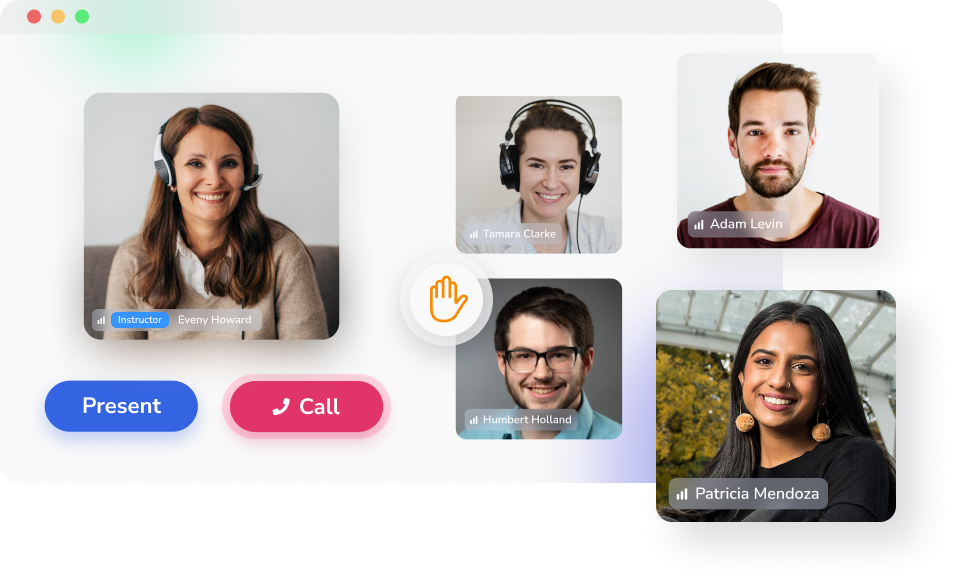
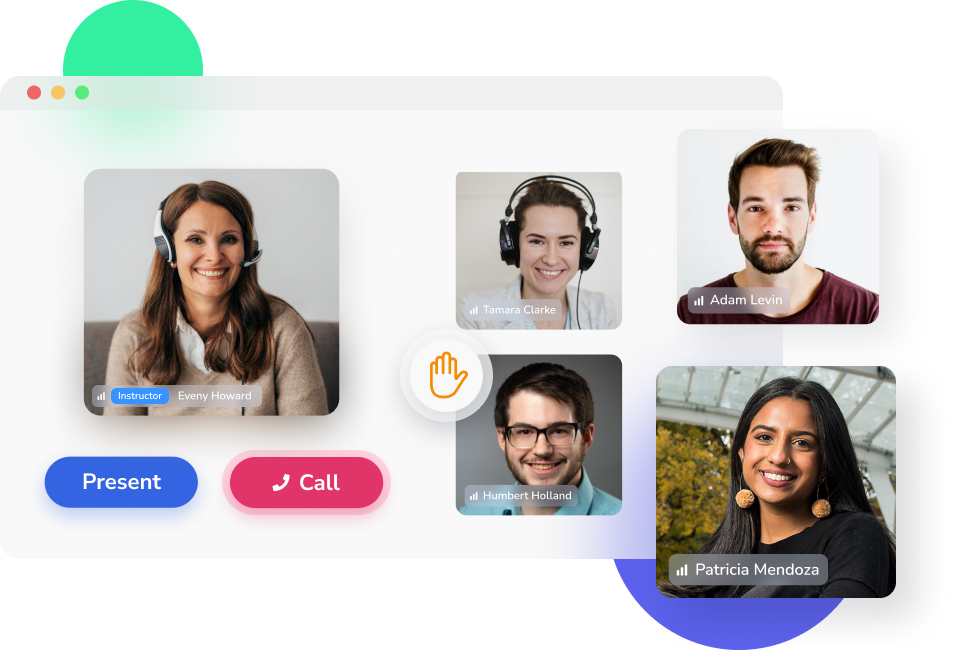
Menambahkan section features

diff --git a/scss/main.scss b/scss/main.scss
@@ -436,6 +436,7 @@ header {
 
   .imgs {
     position: relative;
+    margin-top: 5rem;
 
     .body {
       position: absolute;
@@ -450,6 +451,7 @@ header {
         color: white;
         text-shadow: 1px 1px 2px rgba($color: #000000, $alpha: 0.5);
         font-size: 1.7em;
+        text-transform: uppercase;
       }
 
       button {
@@ -517,14 +519,14 @@ header {
       }
     }
 
-    p{
+    p {
       color: #696984;
       font-size: 1.3em;
       font-weight: 400;
       margin: 25px 0;
     }
 
-    a{
+    a {
       text-decoration: none;
       color: #696984;
 
@@ -536,6 +538,98 @@ header {
 
   // padding: 10px 50px;
 }
+
+// Features
+.features {
+  margin-top: 10rem;
+
+  .heading {
+    text-align: center;
+
+    h3 {
+      font-size: 2em;
+      font-weight: 700;
+      color: $primary-colorBlue;
+
+      span {
+        color: $secondary-colorOrange;
+      }
+    }
+
+    p {
+      font-size: 1.3em;
+      font-weight: 400;
+      color: #696984;
+    }
+  }
+  main {
+    margin-top: 4rem;
+    display: grid;
+    grid-template-columns: 2fr 1.5fr;
+    justify-content: center;
+    align-items: center;
+
+    .main-img {
+      margin-left: 50px;
+      img {
+        width: 800px;
+      }
+    }
+
+    .main-text {
+      h4 {
+        font-size: 2.2em;
+        color: $primary-colorBlue;
+        font-weight: 600;
+
+        span {
+          color: $secondary-colorOrange;
+        }
+      }
+
+      .main-list {
+        display: grid;
+        grid-template-columns: 1fr 3fr;
+        align-items: center;
+        margin-left: -80px;
+        padding-right: 80px;
+
+        img {
+          margin-top: 5px;
+          width: 100px;
+          margin-left: 50px;
+        }
+
+        p {
+          font-size: 1.2em;
+          color: #696984;
+          font-weight: 400;
+        }
+      }
+    }
+  }
+}
+
+.tools {
+  @include flexitems(center, center);
+  // background-color: salmon;
+  margin-top: 5rem;
+
+  .main-text {
+    h4 {
+      font-size: 2.2em;
+      color: $primary-colorBlue;
+      font-weight: 600;
+
+      span {
+        color: $secondary-colorOrange;
+      }
+    }
+  }
+}
+
+
+
 
 @media (max-width: 576px) {
   nav .logo {

diff --git a/index.html b/index.html
@@ -296,7 +296,54 @@
       </div>
 
       <div class="main-img">
-        <img src="assets/img/skill/teaching.png" alt="Teaching image">
+        <img src="assets/img/skill/teaching.png" alt="Teaching image" />
+      </div>
+    </section>
+
+    <section class="features" id="features">
+      <div class="heading">
+        <h3>Our <span>Features</span></h3>
+        <p>
+          This very extraordinary feature, can make learning activities more
+          efficient
+        </p>
+      </div>
+      <main>
+        <div class="main-img">
+          <img src="assets/img/features/1/1.png" alt="One" />
+        </div>
+        <div class="main-text">
+          <h4>A <span>user interface</span> designed for the classroom</h4>
+          <div class="main-list">
+            <img src="assets/img/features/1/1-1.png" alt="one-one" />
+            <p>
+              Teachers don’t get lost in the grid view and have a dedicated
+              Podium space.
+            </p>
+
+            <img src="assets/img/features/1/1-2.png" alt="one-two" />
+            <p>TA’s and presenters can be moved to the front of the class.</p>
+
+            <img src="assets/img/features/1/1-3.png" alt="one-three" />
+            <p>
+              Teachers can easily see all students and class data at one time.
+            </p>
+          </div>
+        </div>
+      </main>
+    </section>
+
+    <section class="tools">
+      <div class="main-text">
+        <h4><span>Tools</span> For Teachers And Learners</h4>
+        <p>
+          Class has a dynamic set of teaching tools built to be deployed and
+          used during class. Teachers can handout assignments in real-time for
+          students to complete and submit.
+        </p>
+      </div>
+      <div class="main-img">
+        <img src="assets/img/features/2/1.png" alt="Tools Person">
       </div>
     </section>
     <script src="js/animate.js"></script>

diff --git a/css/main.css b/css/main.css
@@ -333,6 +333,7 @@ header .header .container-person img {
 }
 .about-us .imgs {
   position: relative;
+  margin-top: 5rem;
 }
 .about-us .imgs .body {
   position: absolute;
@@ -349,6 +350,7 @@ header .header .container-person img {
   color: white;
   text-shadow: 1px 1px 2px rgba(0, 0, 0, 0.5);
   font-size: 1.7em;
+  text-transform: uppercase;
 }
 .about-us .imgs .body button {
   font-size: 1.2;
@@ -415,6 +417,79 @@ header .header .container-person img {
 }
 .skill .text a:hover {
   text-decoration: underline;
+}
+
+.features {
+  margin-top: 10rem;
+}
+.features .heading {
+  text-align: center;
+}
+.features .heading h3 {
+  font-size: 2em;
+  font-weight: 700;
+  color: #2f327d;
+}
+.features .heading h3 span {
+  color: #f48c06;
+}
+.features .heading p {
+  font-size: 1.3em;
+  font-weight: 400;
+  color: #696984;
+}
+.features main {
+  margin-top: 4rem;
+  display: grid;
+  grid-template-columns: 2fr 1.5fr;
+  justify-content: center;
+  align-items: center;
+}
+.features main .main-img {
+  margin-left: 50px;
+}
+.features main .main-img img {
+  width: 800px;
+}
+.features main .main-text h4 {
+  font-size: 2.2em;
+  color: #2f327d;
+  font-weight: 600;
+}
+.features main .main-text h4 span {
+  color: #f48c06;
+}
+.features main .main-text .main-list {
+  display: grid;
+  grid-template-columns: 1fr 3fr;
+  align-items: center;
+  margin-left: -80px;
+  padding-right: 80px;
+}
+.features main .main-text .main-list img {
+  margin-top: 5px;
+  width: 100px;
+  margin-left: 50px;
+}
+.features main .main-text .main-list p {
+  font-size: 1.2em;
+  color: #696984;
+  font-weight: 400;
+}
+
+.tools {
+  display: flex;
+  justify-content: center;
+  align-items: center;
+  margin-top: 5rem;
+}
+.tools .main-text h4 {
+  font-size: 2.2em;
+  color: #2f327d;
+  font-weight: 600;
+}
+.tools .main-text h4 span {
+  color: #f48c06;
 }
 
 @media (max-width: 576px) {
